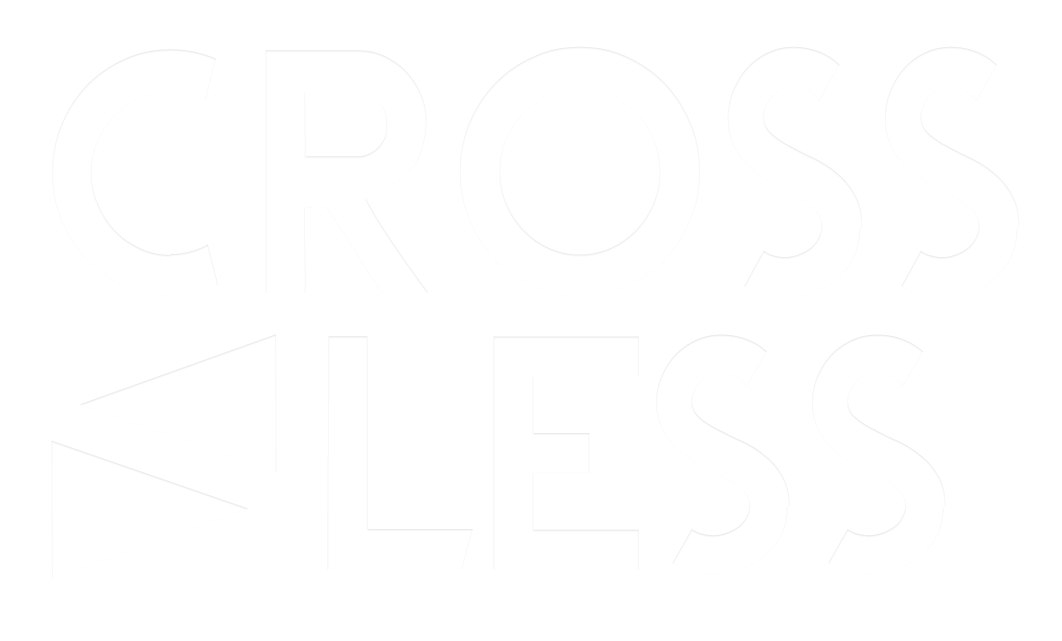
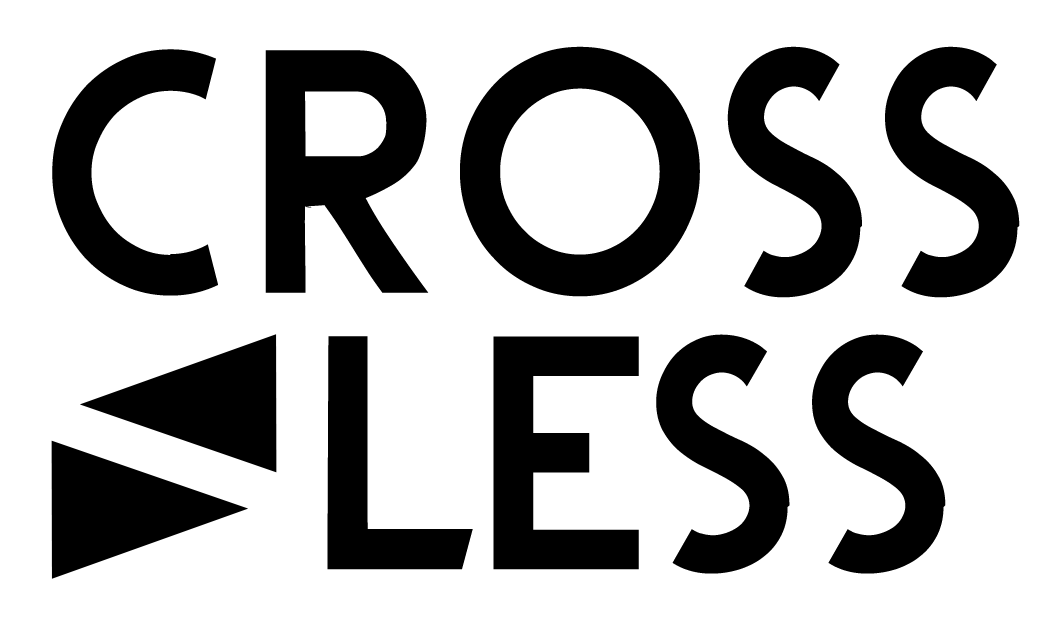
cube

diff --git a/assets/css/common.css b/assets/css/common.css
@@ -149,7 +149,7 @@ a {
 
 .go_to {
     position: absolute;
-    margin-top: 700px;
+    margin-top: 640px;
     left: 50%;
     margin-left: -130px;
 }
@@ -205,7 +205,7 @@ a {
 .crossless {
     position: absolute;
     left: 27%;
-    margin-top: 100px;
+    margin-top: 40px;
     width: 850px;
     height: 500px;
     background: #fffc0a;
@@ -510,6 +510,76 @@ a {
 
 #fp-nav ul li .fp-tooltip {
     top: 5px;   
+}
+
+
+
+.cube {
+    padding: 20px 0 0 1200px;
+}
+
+.pers {
+    perspective: 500px;
+  perspective-origin: center -5em;
+}
+
+.side,
+.container {
+  width: 120px;
+  height: 120px;
+  }
+
+.container {
+  margin: 1em auto 0;
+  transform-style: preserve-3d;
+  animation: rotate 10s infinite linear;
+  }
+
+.side {
+  position: absolute;
+  width: 112.5px;
+  height: 112.5px;
+  border: 4px solid #1f1f1f;
+  }
+
+.back {
+  transform: translateZ(-60px);
+  background: #fffc0a;
+  }
+.left {
+  transform: translateX(-60px) rotateY(90deg);
+  background: #f87980;
+  }
+.rightt {
+  transform: translateX(60px) rotateY(90deg);
+  background: #f87980;
+  }
+.top {
+  transform: translateY(-60px) rotateX(90deg);
+    background: #fffc0a;
+  }
+.bottom {
+  transform: translateY(60px) rotateX(90deg);
+    background: #fffc0a;
+    background-image: url(../img/kross.png);
+    background-size: 100%;
+    background-position: center;
+    background-repeat: no-repeat;
+  }
+.front {
+  transform: translateZ(60px);
+    background: #f87980;
+    background-image: url(../img/kross.png);
+    background-size: 100%;
+    background-position: center;
+    background-repeat: no-repeat;
+  }
+
+
+@keyframes rotate {
+  100% {
+    transform: rotateY(360deg) rotateX(360deg) rotateZ(360deg);
+  }
 }
 
 @keyframes btn-open {

diff --git a/index.html b/index.html
@@ -31,7 +31,18 @@
     <div id="fullpage">
         <div id="overlay"></div>
         <div class="section" id="section-0">
-            <img src="assets/img/cube_cross.png" class="cube_cross">
+            <div class="cube">
+            <div class="pers">
+            <div class="container">
+                <div class="back side"></div>
+                <div class="left side"></div>
+                <div class="rightt side"></div>
+                <div class="top side"></div>
+                <div class="bottom side"></div>
+                <div class="front side"></div>
+            </div>
+            </div>
+            </div>
             <div class="intro">
                 <div class="crossless">
                     <div class="zagolovok">
